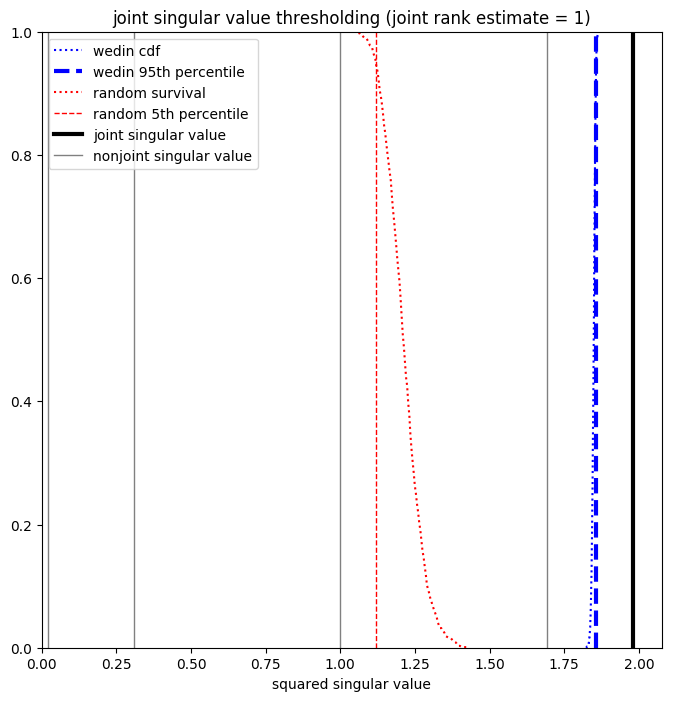
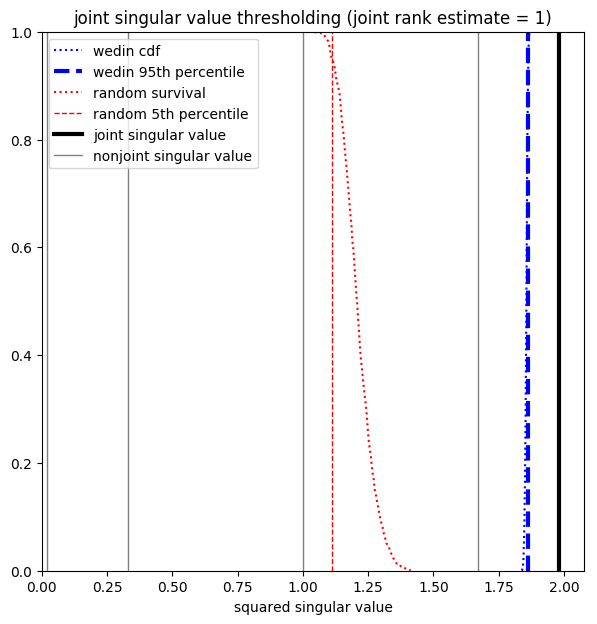
up

Changed region(s): [[0.0, 0.0, 0.995, 1.0], [0.603, 0.5785, 0.6332, 0.8221]]

diff --git a/doc/make_readme_figures.py b/doc/make_readme_figures.py
@@ -11,7 +11,7 @@ plt.savefig('figures/data_heatmaps.png', bbox_inches='tight')
 plt.close()
 
 # determine initial signal ranks by inspecting scree plots
-plt.figure(figsize=[8, 3])
+plt.figure(figsize=[8.4, 3])
 plt.subplot(1, 2, 1)
 PCA().fit(X).plot_scree()
 plt.subplot(1, 2, 2)
@@ -28,7 +28,7 @@ jive_full_estimate_heatmaps(ajive.get_full_block_estimates(),
 plt.savefig('figures/jive_estimate_heatmaps.png', bbox_inches='tight')
 plt.close()
 
-plt.figure(figsize=[8, 8])
+plt.figure(figsize=[7, 7])
 ajive.plot_joint_diagnostic()
 plt.savefig('figures/jive_diagnostic.png', bbox_inches='tight')
 plt.close()
